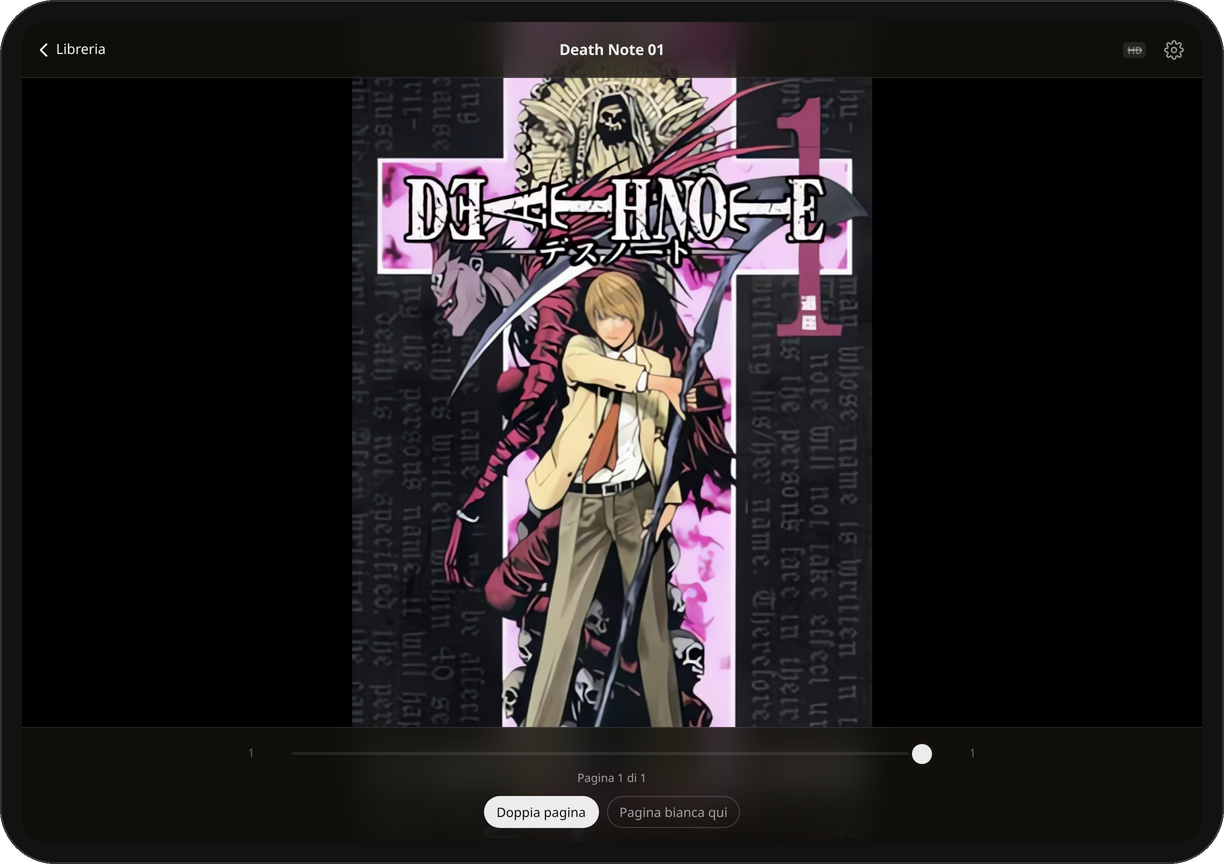
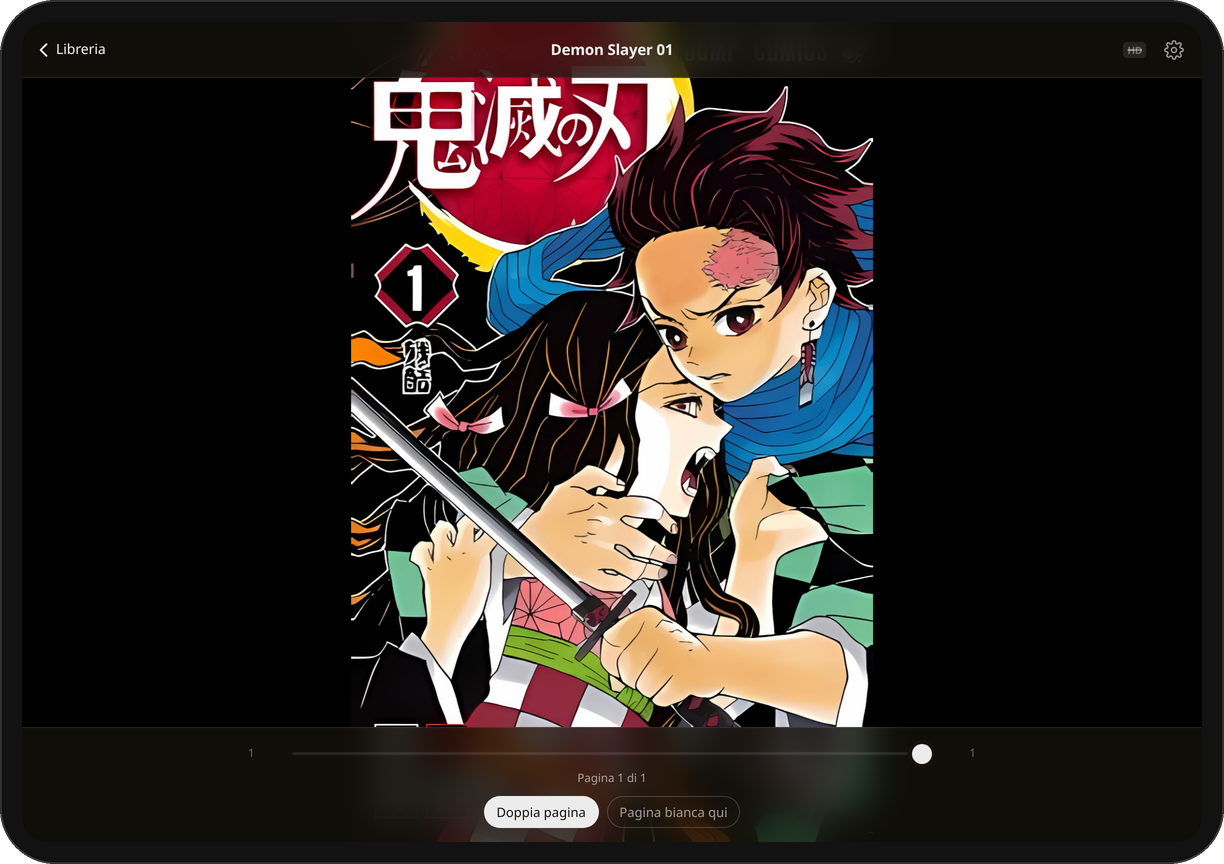
README: before/after e screenshot del lettore rifatti con la copertina di Demon Slayer (Real-ESRGAN 6B, 252×396 → ×4)

diff --git a/README.md b/README.md
@@ -23,10 +23,10 @@
 </p>
 
 <p align="center">
-  <img src="media/readme/hero-before-after.png" alt="Before and after: a 251×396 px cover viewed at 4×. Left, standard upscaling; right, Mangadana's 4K mode (Real-ESRGAN) computed on the device." width="960">
+  <img src="media/readme/hero-before-after.png" alt="Before and after: a 252×396 px cover viewed at 4×. Left, standard upscaling; right, Mangadana's 4K mode (Real-ESRGAN) computed on the device." width="960">
 </p>
 
-<p align="center"><sub>The same 251 × 396 px JPEG cover, viewed at 4×. Left: what a browser shows you. Right: Mangadana's 4K mode (Slow · best), computed on the device.<br>Death Note © Tsugumi Ohba, Takeshi Obata / Shueisha — cover used for demonstration only.</sub></p>
+<p align="center"><sub>The same 252 × 396 px JPEG cover, viewed at 4×. Left: what a browser shows you. Right: Mangadana's 4K mode (Slow · best), computed on the device.<br>Demon Slayer: Kimetsu no Yaiba © Koyoharu Gotouge / Shueisha — cover used for demonstration only.</sub></p>
 
 ## Why Mangadana
 
@@ -130,7 +130,7 @@ Mangadana stands on the work of others:
 - The crown mark comes from the *Extras* face of [Sprite Graffiti](https://www.fontfabric.com/fonts/sprite-graffiti/) by Fontfabric, whose free-font licence permits logos and static images; the font itself is not embedded.
 - The name: 漫画 *manga* + 棚 *dana* (from 本棚 *hondana*, a bookshelf). The manga shelf.
 
-The cover shown on this page is from *Death Note* vol. 1 © Tsugumi Ohba, Takeshi Obata / Shueisha, used only to demonstrate the upscaling. The app ships no manga.
+The cover shown on this page is from *Demon Slayer: Kimetsu no Yaiba* vol. 1 © Koyoharu Gotouge / Shueisha, used only to demonstrate the upscaling. The app ships no manga.
 
 ## License
 
